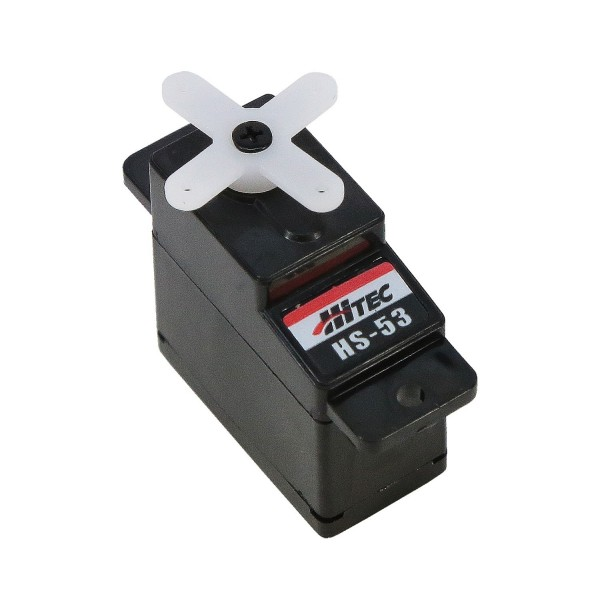
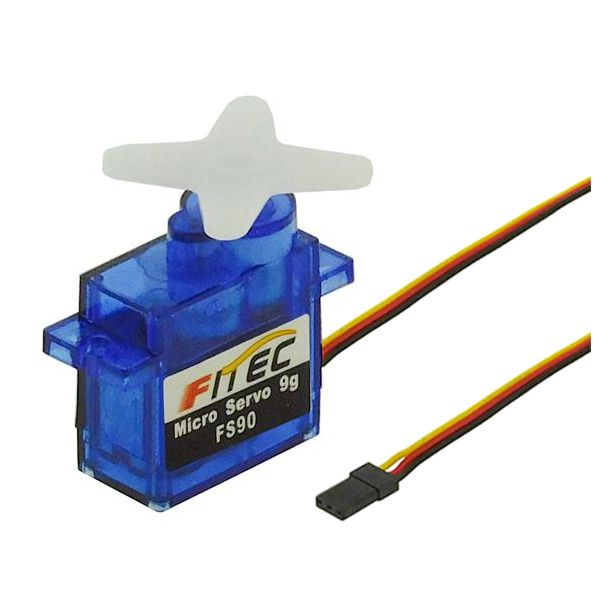
Component reference & pictures correction

diff --git a/docs/Main_board.md b/docs/Main_board.md
@@ -14,9 +14,9 @@ The main board has different voltage levels :
 
 * 5V : Provided by the PW connector, the 5V is distributed to the Feather M0, the RFID module, the servomotor and the 3.3V voltage regulator
 * 3V (permanent) : Provided by the internal Feather M0 regulator, this 3V powers the RTC module
-* 3V (piloted) : Provided by the 3.3V regulator, this voltage powers the IR emitter & receiver and the temperature sensor (RTD)
+* 3V (controlled) : Provided by the 3.3V regulator, this voltage powers the IR emitter & receiver and the temperature sensor (RTD)
 
-As the Feather is a 3V-logic level, all the inputs / outputs are **3V-logic based**.
+As the Feather is a 3V3-logic level, all the inputs / outputs are **3V3-logic based**.
 
 Several **communication modes** are used :
 
@@ -56,10 +56,10 @@ Description of the pinout used :
 </a>
 <!-- markdownlint-enable MD033 -->
 
-The Hitec HS-53 servomotor is suitable for miniaturized or energy-saving systems. With a rotational speed of 1.2 rev/s, it can deliver a maximal torque of 1.5 kg.cm.
+The Feetech FS90 servomotor is suitable for miniaturized or energy-saving systems. With a rotational speed of 1.4 rev/s, it can deliver a maximal torque of 1.3 kg.cm.
 5V power supply
 
-For more details refers to the [datasheet](https://asset.conrad.com/media10/add/160267/c1/-/gl/001081926ML01/mode-demploi-1081926-mini-servomoteur-analogique-hitec-hs-53-112053-1-pcs.pdf)
+For more details refers to the [datasheet](https://www.gotronic.fr/pj2-fs90-2549.pdf)
 
 ### Real-Time-Clock (RTC) module
 
@@ -78,7 +78,7 @@ More information about the board in the [Adafruit tutorial](https://learn.adafru
 
 <!-- markdownlint-disable MD033 -->
 <a href="../assets/images/RFID/RFID_module.png">
-<img src="../assets/images/RFID/RFID_module.png" width="300">
+<img src="../assets/images/RFID/RFID_module.png" width="400">
 </a>
 <!-- markdownlint-enable MD033 -->
 

diff --git a/docs/Antenna_burrow_assembling.md b/docs/Antenna_burrow_assembling.md
@@ -10,6 +10,8 @@ When the two parts are assembled together and the cable is connected, a resin ca
 
 ## Step 1 : Make the antenna base
 
+Refers to the [dedicated page](./Antenna_Burrow.md) for the antenna description with its specifications.
+
 - **3D print** the part « Socle.stl »
 - Apply a **first coat of epoxy resin** for impregnation on the inside walls that will receive the resin casting. Use the long-setting resin (24h) to have time to spread resin into the walls (Weight ratio for preparation : 5 resin - 1 hardener)
 - [Cable a coil antenna](./Assembling_antenna.md) for a 190uH impedance (+/- 29 spires) around the antenna base

diff --git a/docs/Power_supply.md b/docs/Power_supply.md
@@ -3,7 +3,7 @@
 According to the choice of battery, two different power boards can be used with the device.  
 Both boards are physically different but share the same functionnalities.
 
-## Battery voltage measureement
+## Battery voltage measurement
 
 A Li-Po / Li-ion battery voltage can reach 4.2V and a lead-battery 14V. As the Feather M0 do not accept more than 3.3V on its digital inputs, **a voltage divider is required**.  
 The division ratio is different on the two power board (3 for a 5v power board / 6 for a 12v power board) according to the mounted resistors, and **has to be indicated into the software**.  

diff --git a/docs/Power-5V.md b/docs/Power-5V.md
@@ -52,3 +52,9 @@ This 130 x 150 mm solar panel has a power of 2.5W It can deliver 500 mA for a no
 
 The battery used is a Lithium-ion battery 3.6V 20Ah. Its nominal voltage can reach 4.2V when fully charged. **Do not unload below 3V.**  
 During usage, ensure that the temperature is between **0°c to 50°c**.
+
+<!-- markdownlint-disable MD033 -->
+<a href="../assets/images/Power_board/5v_battery.jpg">
+<img src="../assets/images/Power_board/5v_battery.jpg" width="300">
+</a>
+<!-- markdownlint-enable MD033 -->
